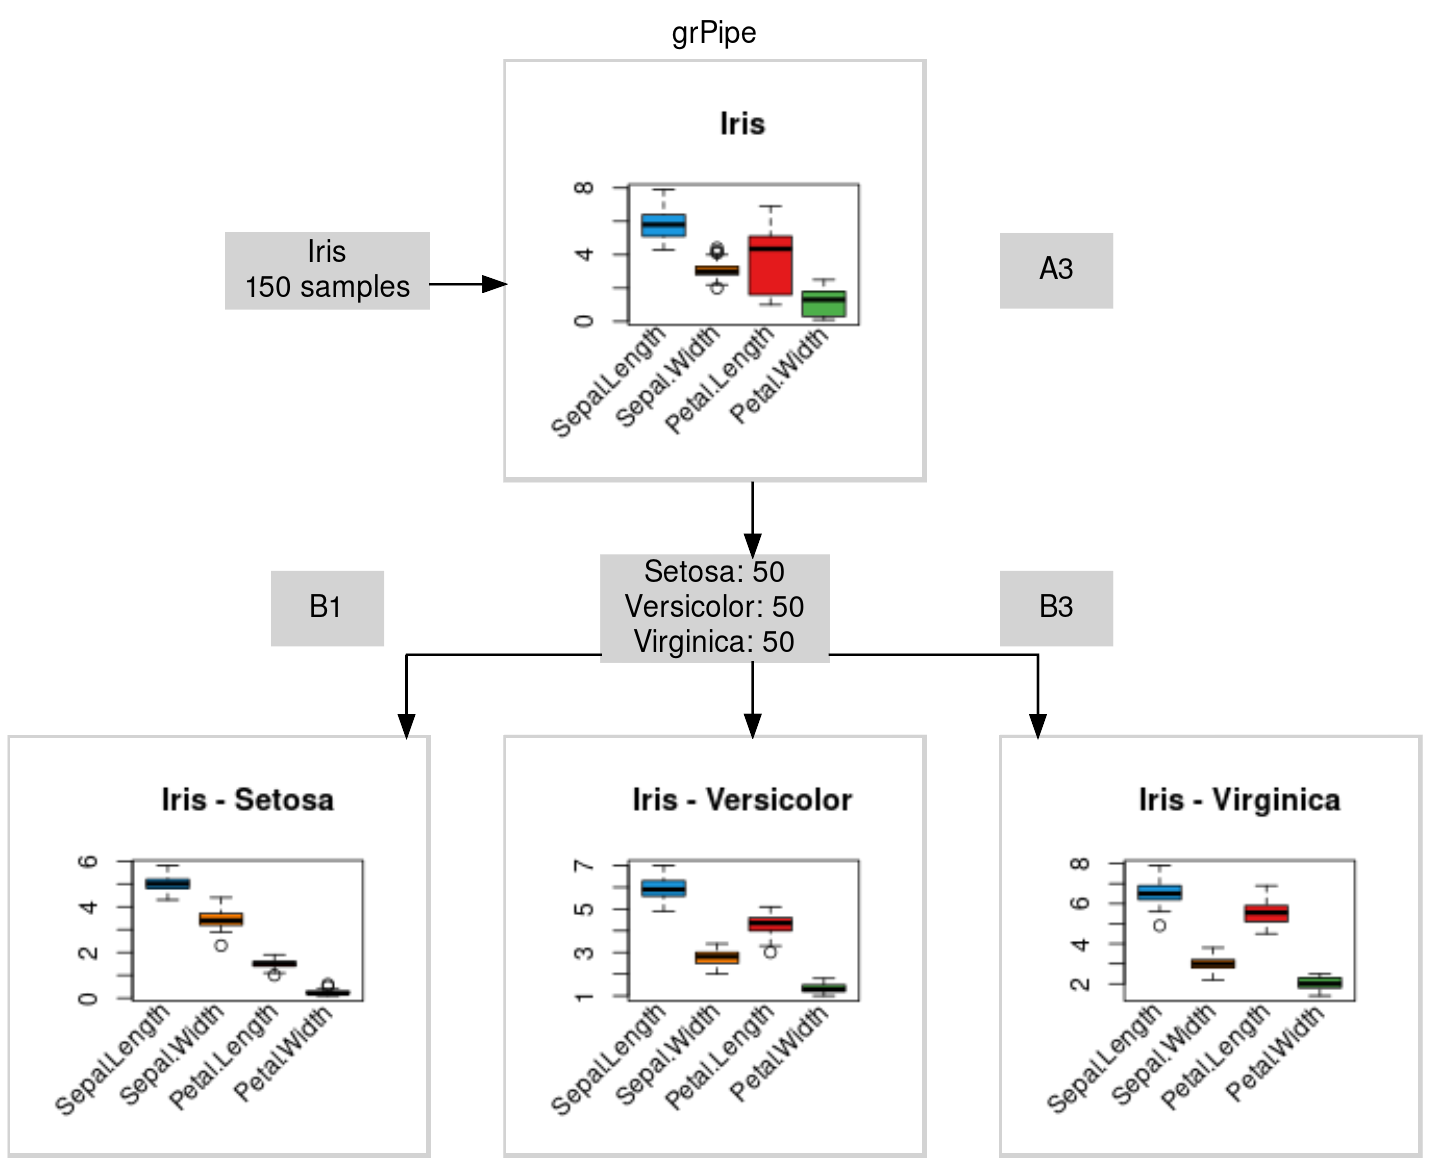
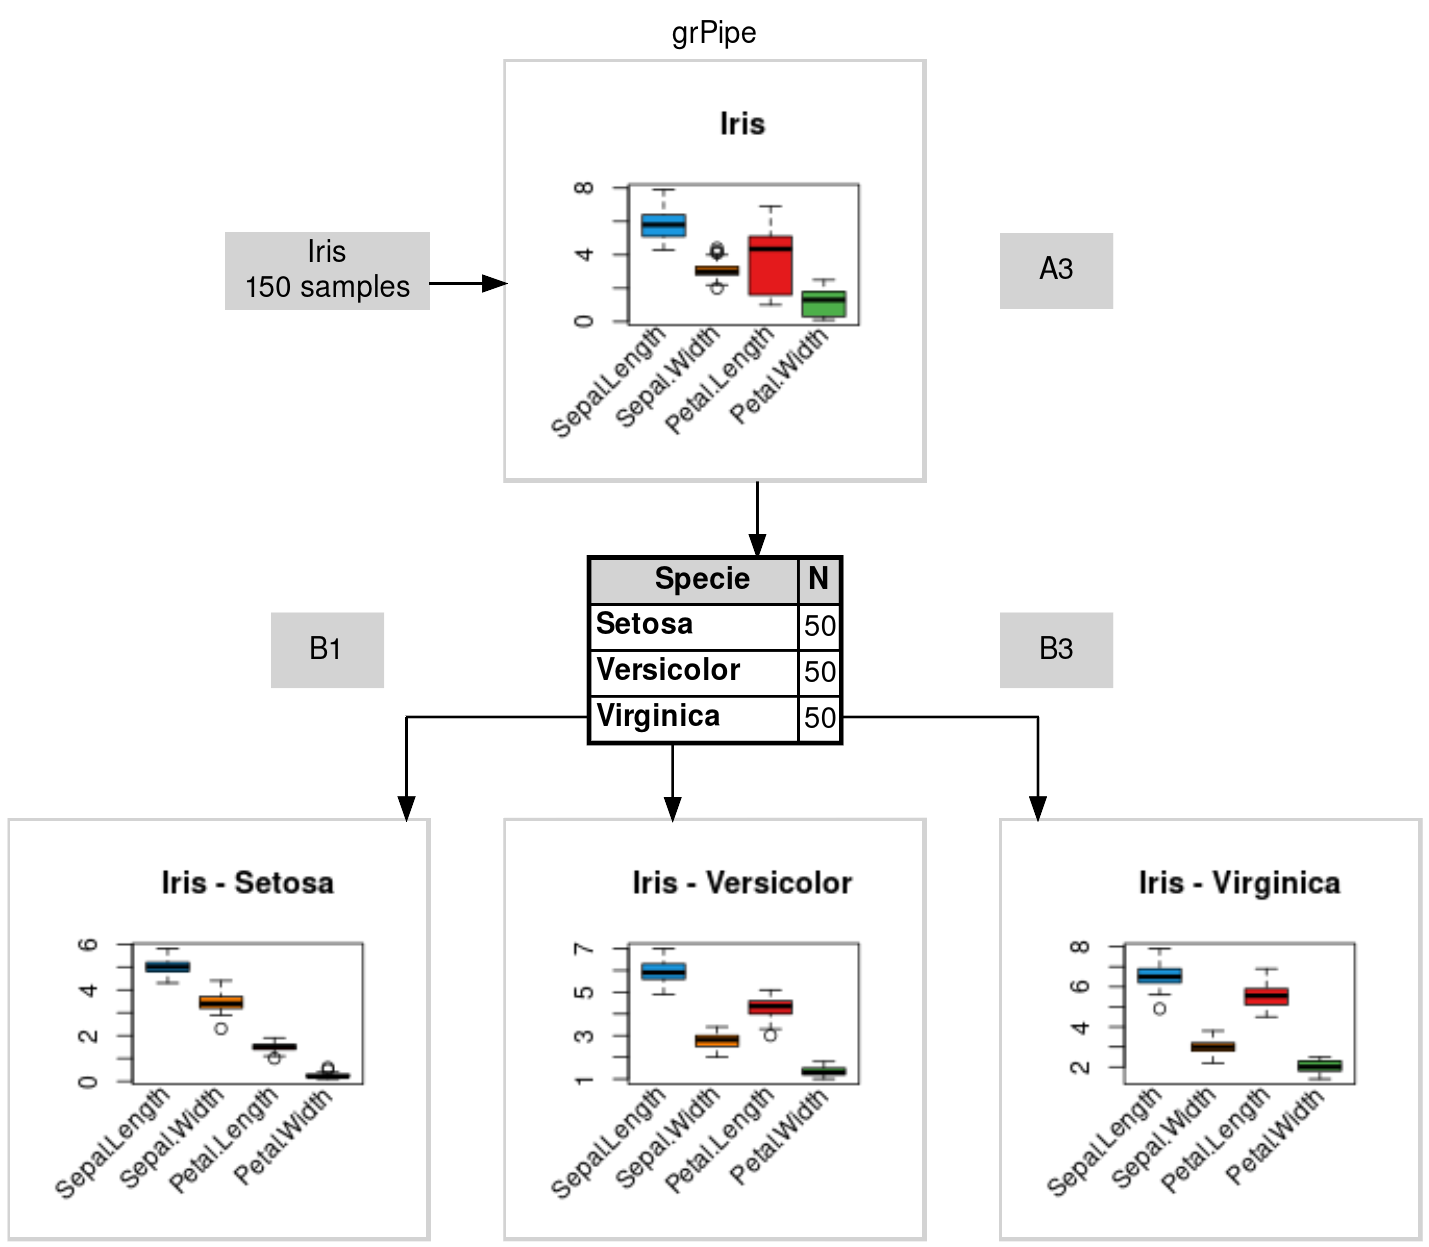
add support to html label

diff --git a/README.md b/README.md
@@ -97,11 +97,26 @@ nodes = grPipe.node(nodes, "A1",  "A2",  paste0("Iris\n", nrow(iris), " samples"
 nodes = grPipe.node(nodes, "A2",  "B2",  "", image = "../iris1.png")
 nodes = grPipe.node(nodes, "B2",  "C1", "")
 nodes = grPipe.node(nodes, "B2",  "C2", "")
-nodes = grPipe.node(nodes, "B2",  "C3", paste0(
-  "Setosa: ", sum(iris$Species=="setosa"),
-  "\nVersicolor: ", sum(iris$Species=="versicolor"),
-  "\nVirginica: ", sum(iris$Species=="virginica")
-))
+nodes = grPipe.node(nodes, "B2",  "C3", paste0("<
+<TABLE BORDER='1' CELLSPACING='0' CELLBORDER='1'>
+  <TR>
+    <TD ALIGN='center' WIDTH='100' BGCOLOR='#d3d3d3'><B>Specie</B></TD>
+    <TD BGCOLOR='#d3d3d3'><B>N</B></TD>
+  </TR>
+  <TR>
+    <TD ALIGN='left'><B>Setosa</B></TD>
+    <TD>", sum(iris$Species=="setosa"), "</TD>
+  </TR>
+  <TR>
+    <TD ALIGN='left'><B>Versicolor</B></TD>
+    <TD>", sum(iris$Species=="versicolor"), "</TD>
+  </TR>
+  <TR>
+    <TD ALIGN='left'><B>Virginica</B></TD>
+    <TD>", sum(iris$Species=="virginica"), "</TD>
+  </TR>
+</TABLE>
+>"), attr = "style=filled, shape=none, fillcolor='#ffffff', color='#000000', margin=0")
 
 # last nodes (id_next = NA)
 nodes = grPipe.node(nodes, "C1",  NA,  "", image = "../iris2.png")
@@ -208,3 +223,4 @@ grPipe.plot(
 # References
 
 > directory icon [man/figures/directory-icon-png-8.png] <https://www.freeiconspng.com/img/12388>
+
